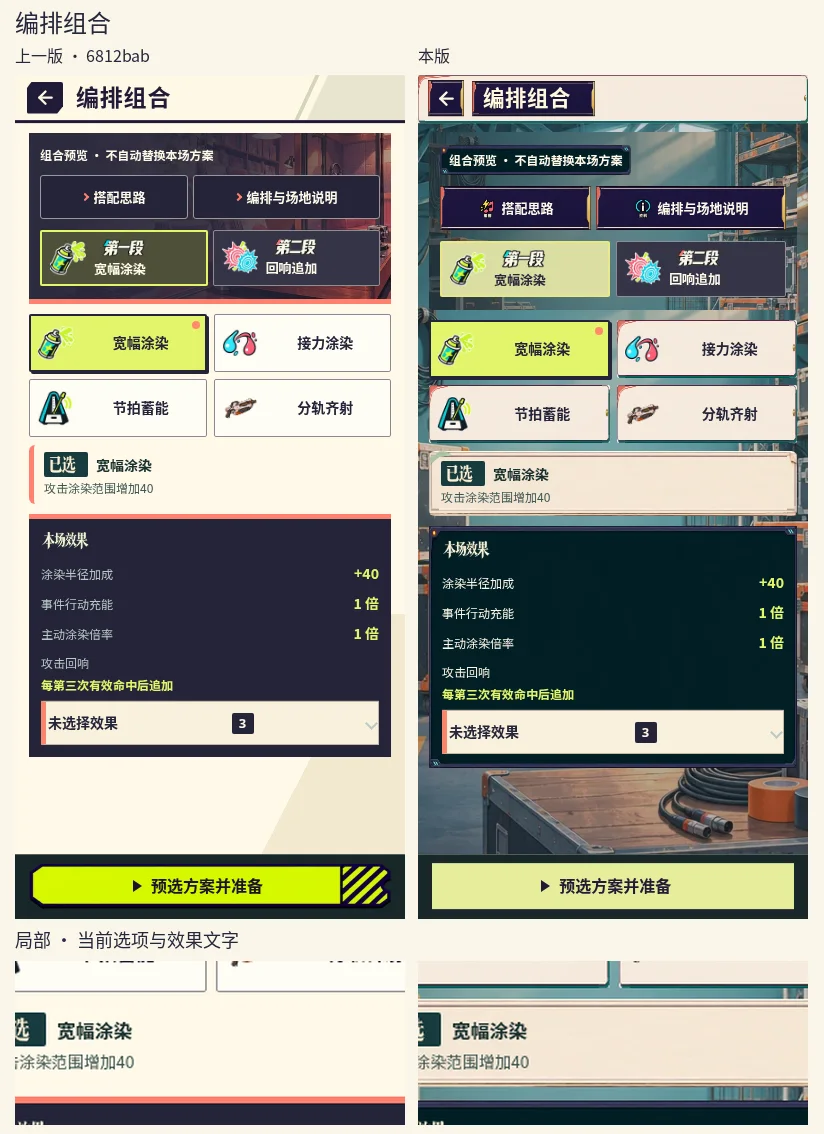
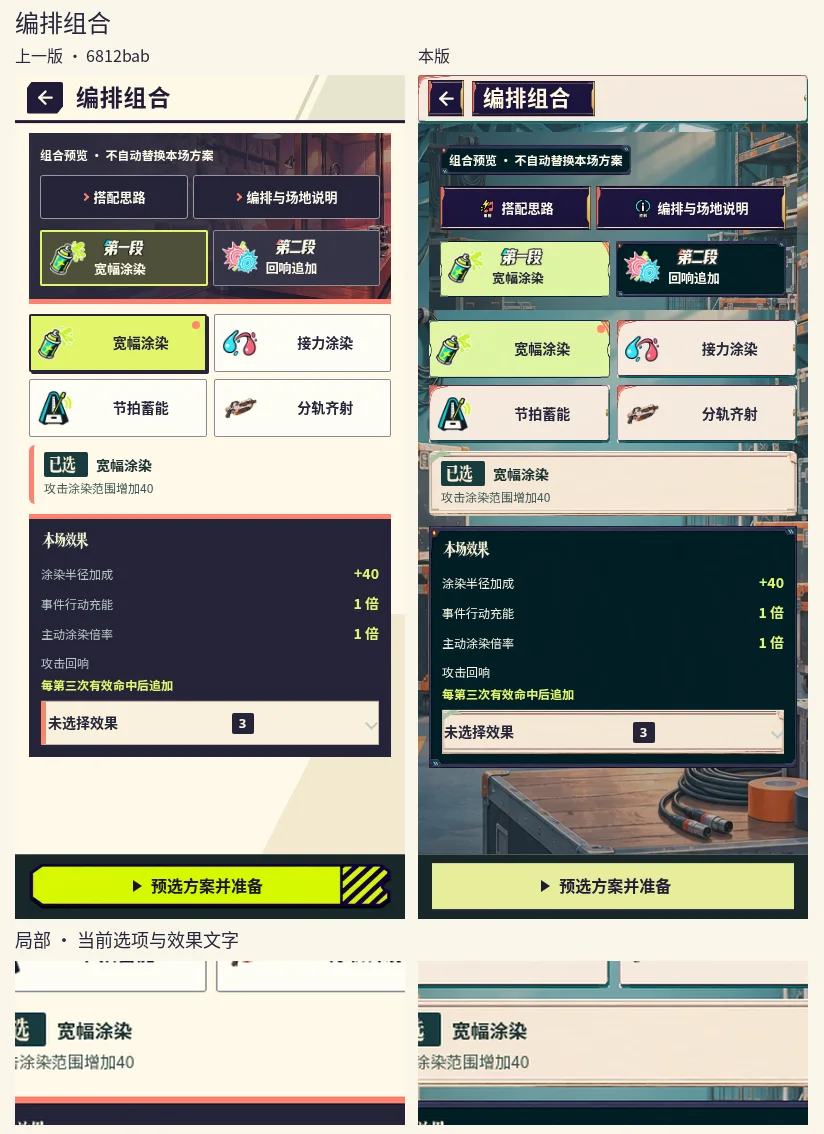
Give training, rules, lounge and preparation buttons individual visible states

Changed region(s): [[0.5158, 0.1852, 0.9709, 0.3395], [0.5158, 0.6173, 0.9405, 0.679]]

diff --git a/game/src/styles/printroomInnerPages.css b/game/src/styles/printroomInnerPages.css
@@ -468,13 +468,6 @@
   }
 }
 
-#game-container #public-shell[data-edition=showbill][data-cast=owner-three][data-ui-rebuild][data-shell-family][data-inner-family][data-ui-pass][data-core-journey][data-home-demo][data-page=workshop] .shell-preparation-footer[data-training-state] button[data-action=train] {
-  min-height:48px;padding:7px 14px;border:0;border-radius:1px;filter:none;opacity:1;
-  background:var(--print-primary-face) center/100% 100% no-repeat!important;color:#242438;box-shadow:none;font-weight:850;
-}
-#game-container #public-shell[data-edition=showbill][data-cast=owner-three][data-ui-rebuild][data-shell-family][data-inner-family][data-ui-pass][data-core-journey][data-home-demo][data-page=workshop] .shell-preparation-footer[data-training-state] button[data-action=train]:disabled {
-  border:2px dashed #605d60;border-left:6px solid #868175;border-radius:1px;background:#e5dfce!important;color:#423e42;filter:none;opacity:1;
-}
 #game-container #public-shell[data-edition=showbill][data-cast=owner-three][data-ui-rebuild][data-shell-family][data-inner-family][data-ui-pass][data-core-journey][data-home-demo][data-page=library] .sec-library-idle > summary {
   display:flex;align-items:center;justify-content:space-between;gap:8px;min-height:44px;padding:5px 11px;
   border:1px solid #c2b9a5;border-left:5px solid #fa856a;border-radius:1px;background:#f8f1dc;color:#242438;
@@ -723,5 +716,112 @@
     & .pm-local-state::before {z-index:1}
     & .cs-local-console .pm-service-command {background:#ede3cd;border:0;border-image:var(--set-note) 42 fill / 8px stretch;box-shadow:none}
     & .cs-network {padding:8px 12px}
+  }
+}
+
+/* Read the actual command and its state even when only the button is visible. */
+#game-container #public-shell[data-edition=showbill][data-cast=owner-three][data-ui-rebuild][data-shell-family][data-inner-family][data-ui-pass][data-core-journey][data-home-demo][data-page] {
+  &[data-page=workshop] .shell-preparation-footer[data-training-state] button[data-action=train],
+  &[data-page=venue] .product-module-screen[data-venue-studio] .sec-venue-dock button.pm-prepare {
+    display:flex;position:relative;align-items:center;justify-content:center;gap:8px;
+    min-height:48px;padding:7px 12px;border:0;border-radius:2px;opacity:1;filter:none;
+    background:#e7eeaa!important;border-image:var(--set-stub) 42 fill / 9px stretch;
+    color:#283632;box-shadow:0 2px 3px #16253140;
+    &::before {
+      content:'';position:static;display:block;flex:0 0 24px;width:24px;height:24px;
+      transform:none;clip-path:none;opacity:1;background:var(--command-glyph) center/contain no-repeat;
+    }
+    &:disabled {
+      background:#f2e7d0!important;border:0;border-image:var(--set-note) 42 fill / 10px stretch;
+      color:#554747;box-shadow:none;--command-glyph:url('/art/hierarchy-ui-20261101/widget-lock.webp');
+    }
+    &:focus-visible {outline:3px solid #1a6672;outline-offset:-4px}
+    &:enabled:active {transform:translateY(1px);filter:brightness(.91);box-shadow:none}
+  }
+  &[data-page=workshop] .shell-preparation-footer[data-training-state] button[data-action=train] {
+    --command-glyph:url('/art/hierarchy-ui-20261101/widget-train.webp');
+    border-image:var(--set-stub) 42 fill / 9px stretch!important;
+    &:disabled {--command-glyph:url('/art/hierarchy-ui-20261101/widget-lock.webp');border-image:var(--set-note) 42 fill / 10px stretch!important}
+  }
+  &[data-page=venue] .product-module-screen[data-venue-studio] .sec-venue-dock button.pm-prepare {
+    --command-glyph:url('/art/hierarchy-ui-20261101/widget-selected.webp');
+    &:disabled {--command-glyph:url('/art/hierarchy-ui-20261101/widget-lock.webp')}
+    & > span[data-venue-letter] {width:auto;height:auto;min-width:0;color:inherit;font:800 15px/20px system-ui,sans-serif!important}
+    & .venue-letter-art {display:none}
+  }
+
+  /* A compact guide is a paper tab, visually separate from play and confirm. */
+  &:is([data-page=finaleTrial],[data-page=rehearsal]) .shell-content .thin-challenge-hero button.thin-challenge-info,
+  &[data-page=goals] .shell-content[data-hierarchy=goals] .pg-goal-context button.pg-goal-info {
+    display:inline-flex;align-items:center;justify-content:center;gap:5px;
+    width:auto;min-width:83px;max-width:111px;min-height:44px;padding:5px 9px;
+    color:#3a3836;background:#fcf0d6;border:0;border-image:var(--set-note) 42 fill / 8px stretch;
+    border-radius:0;box-shadow:0 2px 5px #16253156;
+    & > img.ui-glyph {position:static;display:block;flex:0 0 18px;width:18px;height:18px;transform:none;object-fit:contain}
+    &::before {display:none}
+    &::after {content:attr(aria-label);display:block;position:static;width:auto;height:auto;padding:0;background:none;color:inherit;font:800 13px/18px system-ui,sans-serif;white-space:nowrap}
+    &:focus-visible {outline:3px solid #19626b;outline-offset:-3px}
+    &:active {background-color:#e6deb8;filter:brightness(.91)}
+  }
+
+  &[data-page=lounge] .product-module-screen[data-companion-studio] {
+    & :is(button.ui-actor-switch,button.pm-record-tool) {
+      width:102px;min-width:0;max-width:none;height:44px;min-height:44px;right:8px;padding:5px 7px;gap:4px;
+      border:0;border-radius:2px;background:#f9efd4;border-image:var(--set-note) 42 fill / 7px stretch;
+      color:#2b363c;box-shadow:0 2px 4px #18283d48;
+    }
+    & button.ui-actor-switch {top:8px}
+    & button.pm-record-tool {top:60px;color:#fff8e6;background:#263b42;border-image-source:var(--set-monitor)}
+    & :is(button.ui-actor-switch,button.pm-record-tool)::before {
+      content:'';position:static;display:block;flex:0 0 19px;width:19px;height:19px;
+      transform:none;clip-path:none;background:url('/art/hierarchy-ui-20261101/widget-switch.webp') center/contain no-repeat;
+    }
+    & button.pm-record-tool::before {background-image:url('/art/hierarchy-ui-20261101/widget-archive.webp')}
+    & :is(button.ui-actor-switch,button.pm-record-tool)::after {font-size:13px;line-height:17px;color:inherit;white-space:nowrap}
+    & :is(button.ui-actor-switch,button.pm-record-tool):focus-visible {outline:3px solid #d69a45;outline-offset:-3px}
+    & :is(button.ui-actor-switch,button.pm-record-tool):active {filter:brightness(.91);transform:translateY(1px)}
+  }
+  &[data-page=services] .product-module-screen[data-console-page=services] .cs-local-console button.cs-network {
+    display:flex;align-items:center;justify-content:flex-start;gap:8px;padding:7px 12px;min-height:46px;
+    border:0;border-radius:2px;background:#233844;border-image:var(--set-monitor) 42 fill / 9px stretch;
+    color:#fff9e9;box-shadow:none;
+    &::before {
+      content:'';position:static;flex:0 0 20px;width:20px;height:20px;display:block;transform:none;
+      background:url('/art/hierarchy-ui-20261101/widget-info.webp') center/contain no-repeat;
+    }
+    & > span[data-console-letter] {display:inline;flex:1;color:inherit;text-align:left;font:800 14px/19px system-ui,sans-serif!important}
+    & .console-letter-art {display:none}
+    &::after {content:'›';position:static;width:auto;height:auto;background:none;color:#efe7a6;font:700 20px/20px system-ui,sans-serif}
+    &:focus-visible {outline:3px solid #e4cd83;outline-offset:-4px}
+    &:active {transform:translateY(1px);filter:brightness(.91)}
+  }
+
+  &[data-page=workshop] [data-secondary-page=workshop] .sec-training-stage .ui-workshop-tools button.ui-icon-command {
+    --tool-icon:url('/art/hierarchy-ui-20261101/icons-info.webp');
+    display:inline-flex;align-items:center;justify-content:center;gap:4px;
+    width:90px;min-width:90px;height:44px;min-height:44px;padding:4px 6px;
+    border:0;border-radius:2px;background:#27363f;border-image:var(--set-monitor) 42 fill / 7px stretch;
+    box-shadow:0 2px 4px #1a29363d;color:#fff9e9;
+    &[data-action=actor-switch] {--tool-icon:url('/art/hierarchy-ui-20261101/icons-switch.webp')}
+    &[data-action=workshop-sheet-equipment] {--tool-icon:url('/art/hierarchy-ui-20261101/icons-equipment.webp')}
+    & > .ui-glyph {display:none}
+    &::before {content:'';position:static;display:block;flex:0 0 17px;width:17px;height:17px;background:var(--tool-icon) center/contain no-repeat}
+    &::after {content:attr(aria-label);position:static;display:block;width:auto;height:auto;background:none;color:inherit;font:750 12px/17px system-ui,sans-serif}
+    &:focus-visible {outline:3px solid #e6ca71;outline-offset:-3px}
+    &:active {filter:brightness(.9)}
+  }
+  &[data-page=library] .shell-content[data-planning-studio] {
+    & .sec-library-composition .library-stage-tab {border:0;border-image:var(--set-monitor) 42 fill / 8px stretch}
+    & .sec-library-composition .library-stage-tab[aria-selected=true] {border:0;border-image:var(--set-stub) 42 fill / 8px stretch}
+    & .sec-library-choices .arrangement-option[aria-pressed=true] {border:0;background:#e3edab;border-image:var(--set-stub) 42 fill / 9px stretch;box-shadow:none}
+    & .sec-library-idle > summary {border:0;border-image:var(--set-note) 42 fill / 8px stretch}
+    & .sec-library-idle[open] > summary {border-image-source:var(--set-stub)}
+    & :is(.library-stage-tab,.arrangement-option,summary):focus-visible {outline:3px solid #296971;outline-offset:-4px}
+  }
+  &[data-page=growth] .shell-content[data-planning-studio] .sec-growth-stages {
+    & [data-growth-rank] {border:0;border-image:var(--set-monitor) 42 fill / 8px stretch;background:#24373d}
+    & [data-growth-rank][aria-pressed=true] {border:0;border-image:var(--set-stub) 42 fill / 9px stretch;color:#2e343c;background:#e4eba9}
+    & [data-growth-rank]:focus-visible {outline:3px solid #e5b55e;outline-offset:-4px}
+    & [data-growth-rank]:active {filter:brightness(.92)}
   }
 }

diff --git a/docs/visual-qa/2026-11-25-setdesign/inner/README.md b/docs/visual-qa/2026-11-25-setdesign/inner/README.md
@@ -24,3 +24,9 @@
 | [设置与服务](services.webp) | 过去上方器材横幅、下方大块米色。现在从设备台上方的架子一直看到桌面。 | 本机存档汇总有一块完整读数屏，设置和备份装在同一台服务面板。 | 声音与演出设置、本地完整备份同级；服务状态查询独立。操作结束后回到原来的入口。 |
 
 局部对照取自上面的实际屏幕，位置会跟随标题、按键和文字框移动。16 页同时以 320×568、390×844 和 1366×768 检查。截图中的手机是浏览器模拟。
+
+## 单独裁看按钮
+
+从页面背景里把按钮裁出来后，训练、两种演出规则、休息室换人和记录、场馆筹备、服务状态与上一版仍很接近。因此又改了一轮。训练和筹备共用“可执行／锁定”按钮，材料或排班不足时有锁图和文字，操作可用时换成相应的训练或筹备图形。规则页签改成纸面文字，训练说明等三个工具显示各自图形和原生文字。休息室两枚工具都高 44 像素，之间有 8 像素间隔。服务状态用独立的深色查询按钮。[12 个按钮改前改后局部图](../inner-controls.webp)
+
+320×568 和 390×844 逐个复验这 12 项。每项中心都能命中，宽高均达到约 44 像素；可用项均能显示键盘焦点。另从五章通关测试档真实执行了升阶、分配成员、保存排班和确认筹备。升阶后训练目标更新，筹备结束后按钮恢复为不可用。
